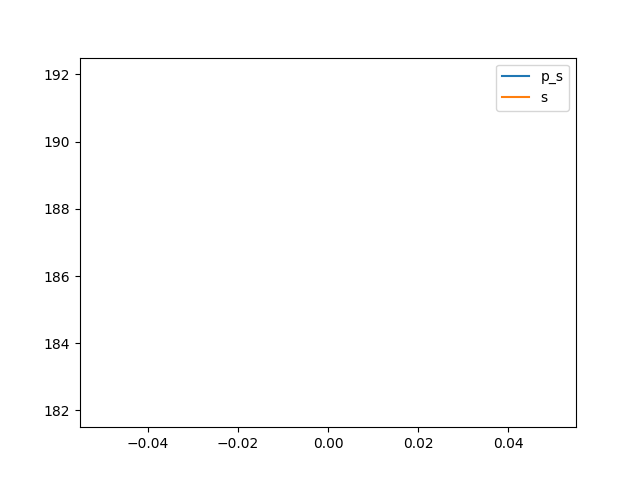
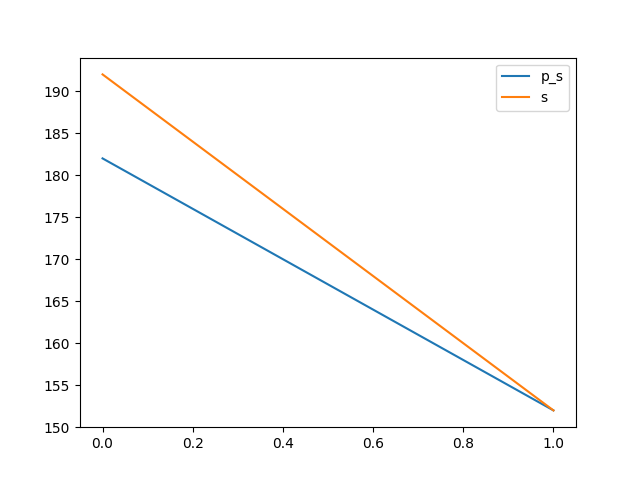
0x0001

diff --git a/benchmark_opt.md b/benchmark_opt.md
@@ -30,3 +30,18 @@ xychart-beta
     bar [80]
 ```
 
+[INFO] Synthesising NPN Class=1 TruthTable:0x0001 pexact:152 r=3 exact:152 r=3 time=0.03min 
+
+```mermaid
+xychart-beta
+    title "Comparison powertwoexact twoexact"
+    x-axis [0, 1]
+    y-axis "Switching Activity" 0-->192
+    line [182, 152]
+    line [192, 152]
+    line [167.0, 167.0]
+    line [172.0, 172.0]
+    bar [80, 60]
+    bar [80, 60]
+```
+
